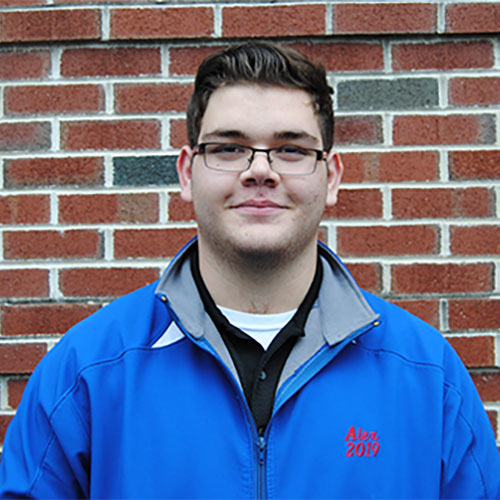
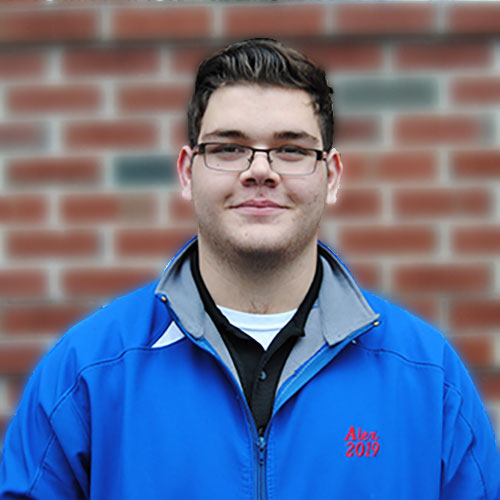
Pictures
Fixed pictures on Home and About

Changed region(s): [[0.0, 0.0, 1.0, 0.93]]

diff --git a/about.html b/about.html
@@ -91,7 +91,7 @@
         <div class="row">
           <div class="col-md-4 mb-4 mb-md-0">
             <div class="card h-100">
-              <img class="card-img-top" src="img/robert.JPG" alt="">
+              <img class="card-img-top" src="img/robert.jpg" alt="">
               <div class="card-body text-center">
                   <h4 class="card-title m-0"> Robert Renode</h4>
                   <h4>
@@ -102,7 +102,7 @@
           </div>
           <div class="col-md-4 mb-4 mb-md-0">
             <div class="card h-100">
-              <img class="card-img-top" src="img/terpstra.jpg" alt="">
+              <img class="card-img-top" src="img/natalie.jpg" alt="">
               <div class="card-body text-center">
                   <h4 class="card-title m-0">Natalie Terpstra</h4>
                   <h4>
@@ -113,7 +113,7 @@
           </div>
           <div class="col-md-4">
             <div class="card h-100">
-              <img class="card-img-top" src="img/alex.JPG" alt="">
+              <img class="card-img-top" src="img/alex.jpg" alt="">
               <div class="card-body text-center">
                   <h4 class="card-title m-0">Alexander Strauss</h4>
                   <h4>

diff --git a/index.html b/index.html
@@ -95,7 +95,7 @@
             <div class="row">
               <div class="col">
                 <div class="team-member mx-auto mb-5 mb-lg-0">
-                  <img class="img-fluid rounded-circle mb-3" src="img/robert%20copy.jpg" alt="">
+                  <img class="img-fluid rounded-circle mb-3" src="img/robert.jpg" alt="">
                   <h5>Robert Renode IV</h5>
                 </div>
               </div>
@@ -107,7 +107,7 @@
               </div>
               <div class="col d-none d-md-block">
                 <div class="team-member mx-auto mb-5 mb-lg-0">
-                  <img class="img-fluid rounded-circle mb-3" src="img/alex.png" alt="">
+                  <img class="img-fluid rounded-circle mb-3" src="img/alex.jpg" alt="">
                   <h5>Alexander Strauss</h5>
                 </div>
                 </div>
